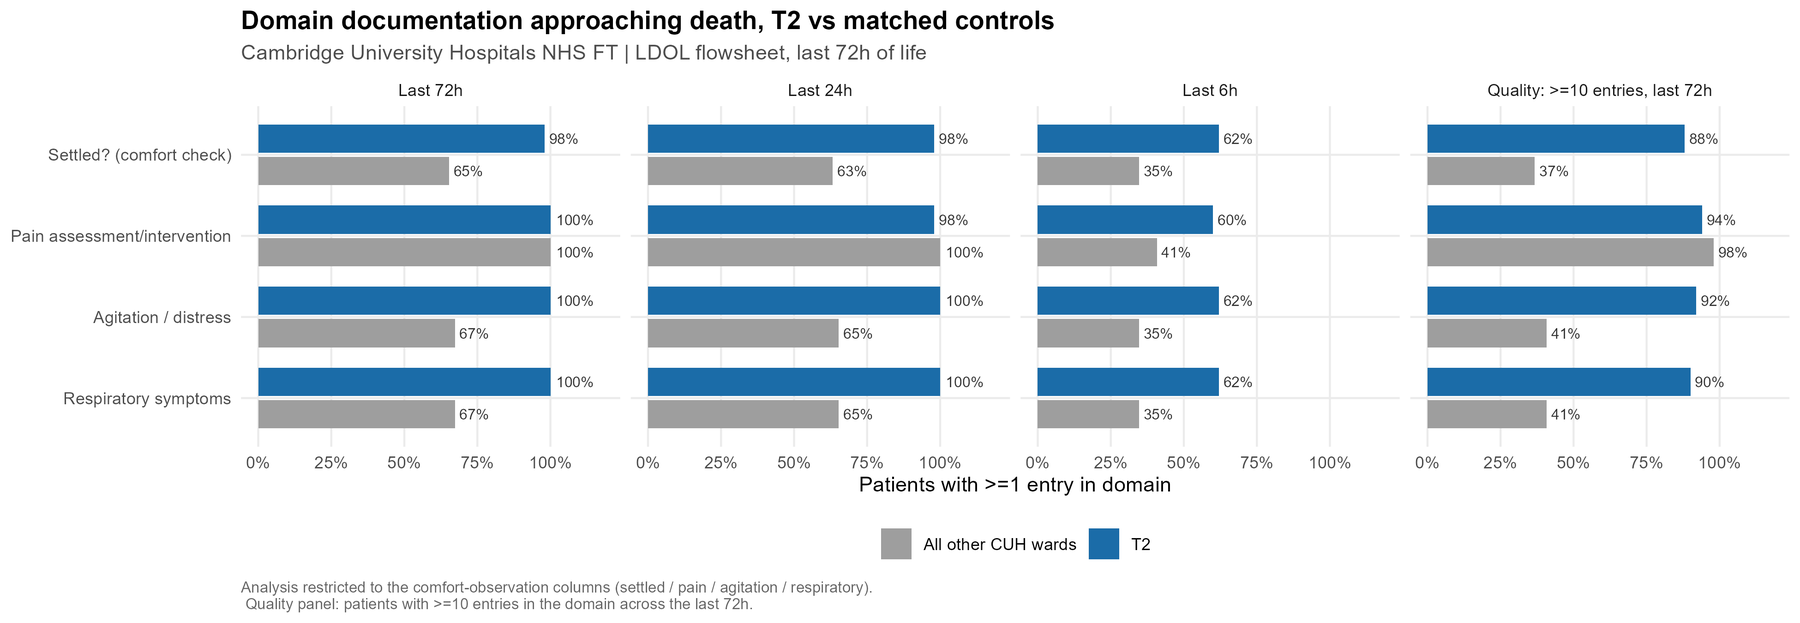
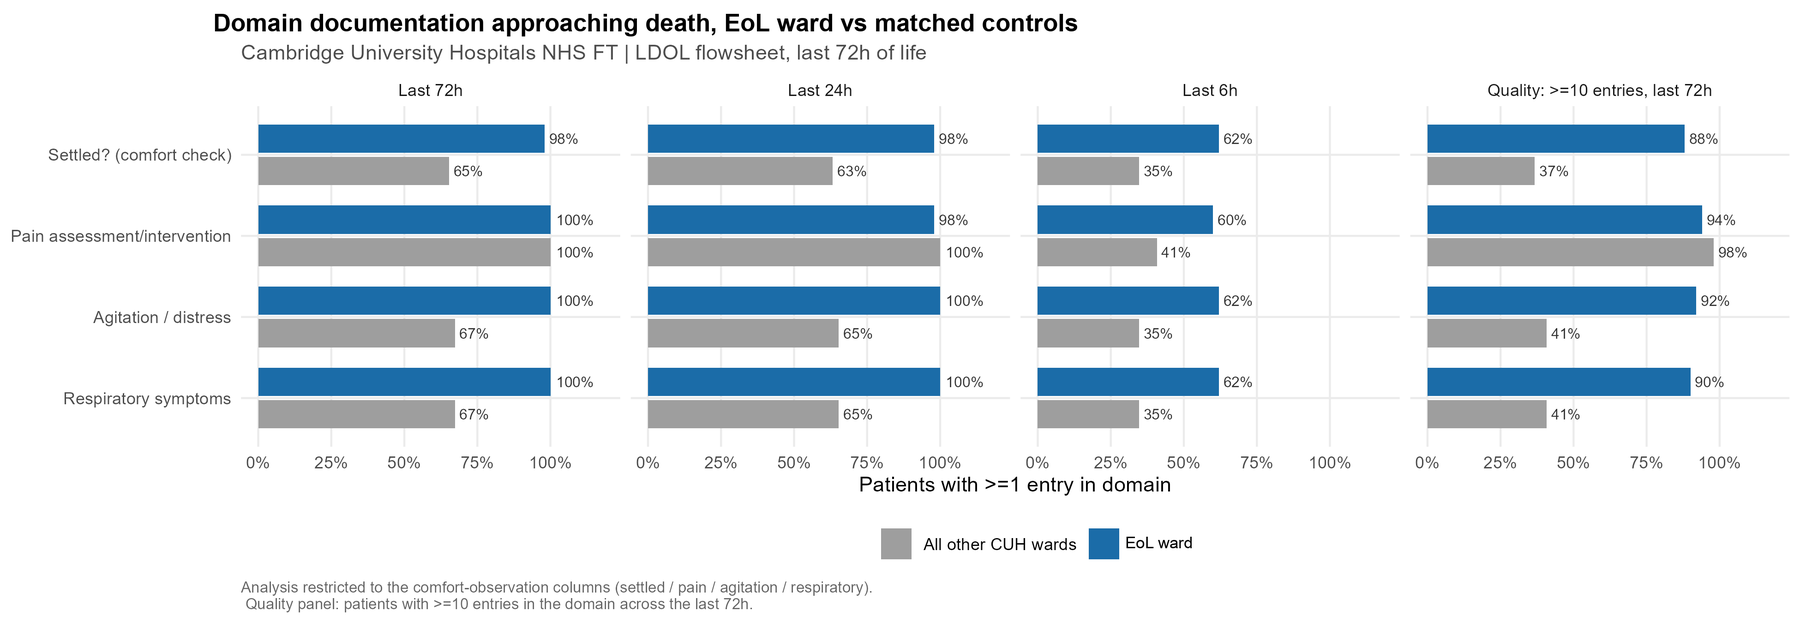
De-identify ward across pages; add 5044 companion page
Claude-Session: https://claude.ai/code/session_012Sc76s7z3r3ek68UsvzYeg

Changed region(s): [[0.1244, 0.0, 0.6222, 0.061], [0.6222, 0.8539, 0.6533, 0.8844]]

diff --git a/5045/index.html b/5045/index.html
@@ -29,11 +29,11 @@ footer{color:var(--muted);font-size:.85rem;border-top:1px solid var(--rule);padd
 <main>
   <div class="eyebrow">BGS Autumn Meeting 2026 · Poster 5045 · Companion page</div>
   <h1>No one dies unassessed: comfort documentation in the last days of life on a dedicated end-of-life ward versus matched wards</h1>
-  <p class="lede">Full results of the first-cycle audit of last-days-of-life comfort observation on Ward T2 (The Willows) against Trust standard PRN-12613, with the charts from the audit report. Cambridge University Hospitals NHS Foundation Trust; registered service evaluation PRN8341.</p>
+  <p class="lede">Full results of the first-cycle audit of last-days-of-life comfort observation on the end-of-life care ward against Trust standard PRN-12613, with the charts from the audit report. Cambridge University Hospitals NHS Foundation Trust; registered service evaluation PRN8341.</p>
 
-  <h2>Results against the audit standards (T2, n = 50)</h2>
+  <h2>Results against the audit standards (ward, n = 50)</h2>
   <div class="wrap"><table>
-    <thead><tr><th>Standard</th><th>Target</th><th>T2 result</th></tr></thead>
+    <thead><tr><th>Standard</th><th>Target</th><th>Ward result</th></tr></thead>
     <tbody>
       <tr><td>Last days of life care plan in place</td><td class="num">95%</td><td class="num ok">100% (50/50)</td></tr>
       <tr><td>Each comfort domain documented in the last 72 hours</td><td class="num">100%</td><td class="num ok">98 to 100%</td></tr>
@@ -46,15 +46,15 @@ footer{color:var(--muted);font-size:.85rem;border-top:1px solid var(--rule);padd
   <p class="note">The final-hours figures are largely a quirk of the data rather than a care gap: death can take some hours to be confirmed on Epic, and the analysis uses that recorded time, so the last assessments are attributed to a period before the recorded death. The six-month re-audit will use the observed time of death.</p>
 
   <h2>Charts from the audit report</h2>
-  <figure><img src="ldol_domains_50pairs.png" alt="Domain documentation approaching death, T2 versus matched controls"><figcaption>Each comfort domain documented in the last 72, 24 and 6 hours, and the proportion with ten or more entries, T2 versus matched controls.</figcaption></figure>
-  <figure><img src="ldol_4h_coverage_50pairs.png" alt="Patients with at least one flowsheet entry per four-hour window"><figcaption>Patients with at least one flowsheet entry in each four-hour window across the last 72 hours. T2 (blue) stays above controls (grey). The fall in the final window is largely the Epic death-confirmation artefact described above.</figcaption></figure>
-  <figure><img src="ldol_symptom_acted_upon_50pairs.png" alt="Was an identified symptom acted upon?"><figcaption>Positive symptom entries with an intervention documented within four hours. Pain lags on both wards (T2 64%, controls 26%); agitation and breathing are well actioned on both.</figcaption></figure>
-  <figure><img src="ldol_no_assessment_by_day_50pairs.png" alt="Patients with no symptom assessment, by day preceding death"><figcaption>Patients with no assessment in a domain on each of the last three days. On T2 no patient went through the final 24 hours without an agitation or respiratory assessment. Chart labels show 49 controls, the count at the report snapshot; the final matched set is 50.</figcaption></figure>
+  <figure><img src="ldol_domains_50pairs.png" alt="Domain documentation approaching death, the ward versus matched controls"><figcaption>Each comfort domain documented in the last 72, 24 and 6 hours, and the proportion with ten or more entries, the ward versus matched controls.</figcaption></figure>
+  <figure><img src="ldol_4h_coverage_50pairs.png" alt="Patients with at least one flowsheet entry per four-hour window"><figcaption>Patients with at least one flowsheet entry in each four-hour window across the last 72 hours. the ward (blue) stays above controls (grey). The fall in the final window is largely the Epic death-confirmation artefact described above.</figcaption></figure>
+  <figure><img src="ldol_symptom_acted_upon_50pairs.png" alt="Was an identified symptom acted upon?"><figcaption>Positive symptom entries with an intervention documented within four hours. Pain lags on both wards (the ward 64%, controls 26%); agitation and breathing are well actioned on both.</figcaption></figure>
+  <figure><img src="ldol_no_assessment_by_day_50pairs.png" alt="Patients with no symptom assessment, by day preceding death"><figcaption>Patients with no assessment in a domain on each of the last three days. On the ward no patient went through the final 24 hours without an agitation or respiratory assessment. Chart labels show 49 controls, the count at the report snapshot; the final matched set is 50.</figcaption></figure>
 
   <h2>What happens next</h2>
-  <p>Four actions with named owners and a target date of 1 October 2026: sustain at least four-hourly comfort observation to the point of death, with a final-hours prompt on the electronic flowsheet; link identified pain to a prompt, documented intervention; extend the T2 comfort-observation standard to dying patients before transfer and on other wards through education and the palliative referral pathway; and re-audit at six months, completing the nutrition, hydration, oral care and relatives standards through the whole-cohort baseline audit.</p>
+  <p>Four actions with named owners and a target date of 1 October 2026: sustain at least four-hourly comfort observation to the point of death, with a final-hours prompt on the electronic flowsheet; link identified pain to a prompt, documented intervention; extend the ward's comfort-observation standard to dying patients before transfer and on other wards through education and the palliative referral pathway; and re-audit at six months, completing the nutrition, hydration, oral care and relatives standards through the whole-cohort baseline audit.</p>
 
-  <footer>Butler M, Johnston J, O'Hara T, Bailey A, Jones K. Cambridge University Hospitals NHS Foundation Trust. Retrospective audit of electronic last-days-of-life flowsheet exports for the final 72 hours of life; first 50 consecutive T2 deaths matched 1:1 to acute ward deaths on specialty, age within ten years and nearest length of stay; paired Wilcoxon and exact McNemar tests.</footer>
+  <footer>Butler M, Johnston J, O'Hara T, Bailey A, Jones K. Cambridge University Hospitals NHS Foundation Trust. Retrospective audit of electronic last-days-of-life flowsheet exports for the final 72 hours of life; first 50 consecutive ward deaths matched 1:1 to acute ward deaths on specialty, age within ten years and nearest length of stay; paired Wilcoxon and exact McNemar tests.</footer>
 </main>
 </body>
 </html>

diff --git a/5044/index.html b/5044/index.html
@@ -1,0 +1,62 @@
+<!doctype html>
+<html lang="en">
+<head>
+<meta charset="utf-8">
+<meta name="viewport" content="width=device-width,initial-scale=1">
+<title>Where People Die Is Changing</title>
+<link rel="stylesheet" href="https://fonts.googleapis.com/css2?family=Public+Sans:wght@400;600;700&family=Source+Serif+4:opsz,wght@8..60,600&display=swap">
+<style>
+:root{--ground:#FFFFFF;--ink:#1E2430;--muted:#5B6472;--rule:#D8DDE5;--nhs:#003087;--accent:#1B6CA8;--tint:#EEF3F9;--warn:#8A5A00;--warn-tint:#FFF6E0}
+@media (prefers-color-scheme: dark){:root:not([data-theme="light"]){--ground:#12161C;--ink:#E8ECF2;--muted:#A3ACB9;--rule:#2C333D;--nhs:#9DB9F0;--accent:#6FAEE0;--tint:#1A2230;--warn:#F0C26B;--warn-tint:#2A2314}}
+:root[data-theme="dark"]{--ground:#12161C;--ink:#E8ECF2;--muted:#A3ACB9;--rule:#2C333D;--nhs:#9DB9F0;--accent:#6FAEE0;--tint:#1A2230;--warn:#F0C26B;--warn-tint:#2A2314}
+body{background:var(--ground);color:var(--ink);font-family:"Public Sans",system-ui,Arial,sans-serif;line-height:1.5;margin:0}
+main{max-width:960px;margin:0 auto;padding:40px 24px 64px}
+.eyebrow{font-size:.78rem;letter-spacing:.08em;text-transform:uppercase;color:var(--nhs);font-weight:600}
+h1{font-family:"Source Serif 4",Georgia,serif;font-weight:600;font-size:clamp(1.7rem,3.6vw,2.4rem);line-height:1.15;margin:.3rem 0 .4rem;text-wrap:balance}
+.lede{color:var(--muted);max-width:65ch;margin:0 0 28px}
+h2{font-size:1.1rem;margin:40px 0 12px;font-weight:700}
+table{border-collapse:collapse;width:100%;font-variant-numeric:tabular-nums;font-size:.95rem}
+th,td{text-align:left;padding:10px 12px;border-bottom:1px solid var(--rule);vertical-align:top}
+th{font-weight:600;color:var(--muted);font-size:.82rem;letter-spacing:.04em;text-transform:uppercase}
+td.num{white-space:nowrap}.now{color:var(--accent);font-weight:700}
+.note{background:var(--warn-tint);color:var(--warn);border-radius:6px;padding:12px 16px;font-size:.92rem;margin:18px 0 0}
+figure{margin:0 0 32px}figure img{width:100%;height:auto;display:block;border:1px solid var(--rule);border-radius:4px;background:#fff}
+figcaption{color:var(--muted);font-size:.9rem;margin-top:8px;max-width:75ch}.wrap{overflow-x:auto}
+footer{color:var(--muted);font-size:.85rem;border-top:1px solid var(--rule);padding-top:16px;margin-top:40px}
+</style>
+</head>
+<body>
+<main>
+  <div class="eyebrow">BGS Autumn Meeting 2026 · Poster 5044 · Companion page</div>
+  <h1>Where people die is changing: figures updated to 27 September 2026</h1>
+  <p class="lede">The accepted abstract described the first eleven weeks of a dedicated nurse-led end-of-life care ward (14 April to 28 June 2026). This page carries the same descriptive analysis rerun on data to 27 September 2026, so that readers of the poster can see how the picture has developed over 24 weeks. Cambridge University Hospitals NHS Foundation Trust; registered service evaluation PRN8341.</p>
+
+  <h2>Abstract figures and updated figures</h2>
+  <div class="wrap"><table>
+    <thead><tr><th>Measure</th><th>Abstract (to 28 Jun 2026)</th><th>Updated (to 27 Sep 2026)</th></tr></thead>
+    <tbody>
+      <tr><td>Deaths on the ward</td><td class="num">49 in the first 49 days</td><td class="num now">252 in 167 days (mean 1.5 per day)</td></tr>
+      <tr><td>Share of non critical care in-hospital deaths</td><td class="num">mean 32% of all deaths; up to 44% of non critical care deaths</td><td class="num now">mean 47% of non critical care deaths since opening</td></tr>
+      <tr><td>Trust-wide weekly deaths</td><td class="num">within historical range</td><td class="num now">within historical range (14 to 29 per week)</td></tr>
+      <tr><td>Largest referring specialties</td><td class="num">geriatric medicine 29%, stroke 22%, general medicine 10%</td><td class="num now">geriatric medicine 29%, stroke 13%, general medicine 13%, oncology 8%</td></tr>
+      <tr><td>Fast-track discharges</td><td class="num">about 20; 55% home, 40% care home</td><td class="num now">115 since 17 May; 45% home, 40% care home, 10% hospice</td></tr>
+      <tr><td>Deaths by shift (day 08:00 to 20:00)</td><td class="num">57% day, 43% night</td><td class="num now">45% day, 55% night</td></tr>
+    </tbody>
+  </table></div>
+  <p class="note">The day and night split differs between the two runs because the updated analysis assigns shift from the time the discharge was registered, which is a proxy for the time of death and can fall some hours later. The abstract figure used the recorded time of death where available. Treat the split as approximate.</p>
+
+  <h2>Updated charts</h2>
+  <figure><img src="weekly_share_sep2026.png" alt="Weekly in-hospital deaths by ward grouping, proportional, to September 2026"><figcaption>Weekly share of non critical care in-hospital deaths by location, January to September 2026. The dashed line marks the ward opening; the ward's mean share since opening is 47%.</figcaption></figure>
+  <figure><img src="weekly_counts_sep2026.png" alt="Weekly in-hospital deaths by ward grouping, counts, to September 2026"><figcaption>The same weeks as counts. Total weekly deaths stay within the historical range, showing redistribution of where people die rather than additional mortality.</figcaption></figure>
+  <figure><img src="deaths_by_day_sep2026.png" alt="Deaths on the ward by day, April to September 2026"><figcaption>Deaths on the ward by day since opening: 252 over 167 days.</figcaption></figure>
+  <figure><img src="referring_specialty_sep2026.png" alt="Referring specialty for ward deaths"><figcaption>Specialty under which patients were admitted before transfer, top ten.</figcaption></figure>
+  <figure><img src="fast_track_destinations_sep2026.png" alt="Fast-track discharges by destination"><figcaption>Fast-track discharges to preferred place of care since 17 May 2026 (n = 115).</figcaption></figure>
+  <figure><img src="deaths_by_shift_sep2026.png" alt="Deaths on the ward by shift"><figcaption>Deaths by shift on the updated definition (see the note above).</figcaption></figure>
+
+  <h2>Abstract-period chart, for comparison</h2>
+  <figure><img src="weekly_share_jun2026.png" alt="Weekly share of deaths to June 2026, as in the abstract"><figcaption>The weekly share chart on data to 28 June 2026, which underlies the abstract.</figcaption></figure>
+
+  <footer>Butler M, O'Hara T, Johnston J, Bailey A, Manikam E. Cambridge University Hospitals NHS Foundation Trust. Descriptive service evaluation using routinely collected activity and mortality data; findings are early and descriptive.</footer>
+</main>
+</body>
+</html>

diff --git a/5046/index.html b/5046/index.html
@@ -43,14 +43,14 @@ footer{color:var(--muted);font-size:.85rem;border-top:1px solid var(--rule);padd
 <main>
   <div class="eyebrow">BGS Autumn Meeting 2026 · Poster 5046 · Companion page</div>
   <h1>Ending corridor care for the dying: figures updated to 31 August 2026</h1>
-  <p class="lede">The accepted abstract reported reverse boarding of end-of-life patients up to late May 2026, six weeks after Ward T2 (The Willows) opened. This page carries the same analysis rerun on data to 31 August 2026, so that readers of the poster can see how the estimate has moved with a longer follow-up. Cambridge University Hospitals NHS Foundation Trust; registered service evaluation PRN8341.</p>
+  <p class="lede">The accepted abstract reported reverse boarding of end-of-life patients up to late May 2026, six weeks after the end-of-life care ward opened. This page carries the same analysis rerun on data to 31 August 2026, so that readers of the poster can see how the estimate has moved with a longer follow-up. Cambridge University Hospitals NHS Foundation Trust; registered service evaluation PRN8341.</p>
 
   <h2>Abstract figures and updated figures</h2>
   <div class="wrap">
   <table>
     <thead><tr><th>Measure</th><th>Abstract (to May 2026)</th><th>Updated (to 31 Aug 2026)</th></tr></thead>
     <tbody>
-      <tr><td>Reverse-boarded spells, before and after T2 opened</td><td class="num">5,835 and 642</td><td class="num now">5,826 and 2,035</td></tr>
+      <tr><td>Reverse-boarded spells, before and after the ward opened</td><td class="num">5,835 and 642</td><td class="num now">5,826 and 2,035</td></tr>
       <tr><td>End-of-life share of reverse-boarded spells</td><td class="num">17.4% to 8.9%</td><td class="num now">18.6% to 11.3%</td></tr>
       <tr><td>Rate ratio (95% confidence interval)</td><td class="num">0.51 (0.40 to 0.66)</td><td class="num now">0.61 (0.53 to 0.70)</td></tr>
       <tr><td>Weekly end-of-life reverse-boarding events</td><td class="num">21.4 to 12.4</td><td class="num now">20.0 to 11.5</td></tr>
@@ -62,19 +62,19 @@ footer{color:var(--muted);font-size:.85rem;border-top:1px solid var(--rule);padd
 
   <h2>Updated charts</h2>
   <figure>
-    <img src="pre_post_t2_composition_aug2026.png" alt="Composition of reverse-boarded spells before and after T2 opening, data to 31 August 2026">
-    <figcaption>Composition of reverse-boarded spells before and after T2 opened, updated to 31 August 2026. The end-of-life share fell from 18.6% to 11.3%, rate ratio 0.61.</figcaption>
+    <img src="composition_aug2026.png" alt="Composition of reverse-boarded spells before and after the ward opening, data to 31 August 2026">
+    <figcaption>Composition of reverse-boarded spells before and after the ward opened, updated to 31 August 2026. The end-of-life share fell from 18.6% to 11.3%, rate ratio 0.61.</figcaption>
   </figure>
   <figure>
-    <img src="deep_dive_weekly_rate_aug2026.png" alt="Weekly percentage of end-of-life patients reverse boarded, April 2025 to August 2026">
+    <img src="weekly_rate_aug2026.png" alt="Weekly percentage of end-of-life patients reverse boarded, April 2025 to August 2026">
     <figcaption>Weekly percentage of end-of-life patients reverse boarded, April 2025 to August 2026. The dashed line marks the ward opening on 14 April 2026.</figcaption>
   </figure>
   <figure>
-    <img src="quarterly_rate_eolc_rb_aug2026.png" alt="Quarterly percentage of end-of-life patients reverse boarded, 2021 to 2026">
+    <img src="quarterly_rate_aug2026.png" alt="Quarterly percentage of end-of-life patients reverse boarded, 2021 to 2026">
     <figcaption>Quarterly percentage of end-of-life patients reverse boarded since 2021, showing the rise through 2022 and the fall in the two quarters after opening.</figcaption>
   </figure>
   <figure>
-    <img src="rb_risk_by_eolc_bars_aug2026.png" alt="Annual risk of reverse boarding for end-of-life versus other patients">
+    <img src="risk_by_eolc_aug2026.png" alt="Annual risk of reverse boarding for end-of-life versus other patients">
     <figcaption>Annual risk of reverse boarding for patients with and without an end-of-life marker. End-of-life patients remain more likely to be boarded overall (risk ratio 1.70 in 2026 to date); the ward changes who is boarded, not how much boarding occurs.</figcaption>
   </figure>
   <figure>
@@ -84,7 +84,7 @@ footer{color:var(--muted);font-size:.85rem;border-top:1px solid var(--rule);padd
 
   <h2>Abstract-period chart, for comparison</h2>
   <figure>
-    <img src="pre_post_t2_composition_may2026.png" alt="Composition of reverse-boarded spells before and after T2 opening, data to May 2026, as in the abstract">
+    <img src="composition_may2026.png" alt="Composition of reverse-boarded spells before and after the ward opening, data to May 2026, as in the abstract">
     <figcaption>The same composition chart on data to May 2026, which underlies the figures in the accepted abstract.</figcaption>
   </figure>
 

diff --git a/index.html b/index.html
@@ -1,8 +1,9 @@
 <!doctype html><html lang="en"><head><meta charset="utf-8"><meta name="viewport" content="width=device-width,initial-scale=1"><title>BGS Autumn Meeting 2026 posters</title>
 <style>body{font-family:system-ui,Arial,sans-serif;max-width:720px;margin:48px auto;padding:0 24px;color:#1E2430;line-height:1.5}h1{color:#003087;font-size:1.6rem}a{color:#1B6CA8}li{margin:10px 0}</style></head>
 <body><h1>BGS Autumn Meeting 2026 · poster companion pages</h1>
-<p>Cambridge University Hospitals NHS Foundation Trust, Ward T2 (The Willows). Updated figures and charts to accompany the printed posters.</p>
+<p>Cambridge University Hospitals NHS Foundation Trust, the end-of-life care ward. Updated figures and charts to accompany the printed posters.</p>
 <ul>
+<li><a href="5044/">5044 · Where people die is changing: early activity of a dedicated nurse-led end-of-life care ward in an acute hospital</a></li>
 <li><a href="5046/">5046 · Ending corridor care for the dying: reverse boarding before and after a dedicated end-of-life care ward</a></li>
 <li><a href="5045/">5045 · No one dies unassessed: comfort documentation in the last days of life on a dedicated end-of-life ward versus matched wards</a></li>
 </ul></body></html>
